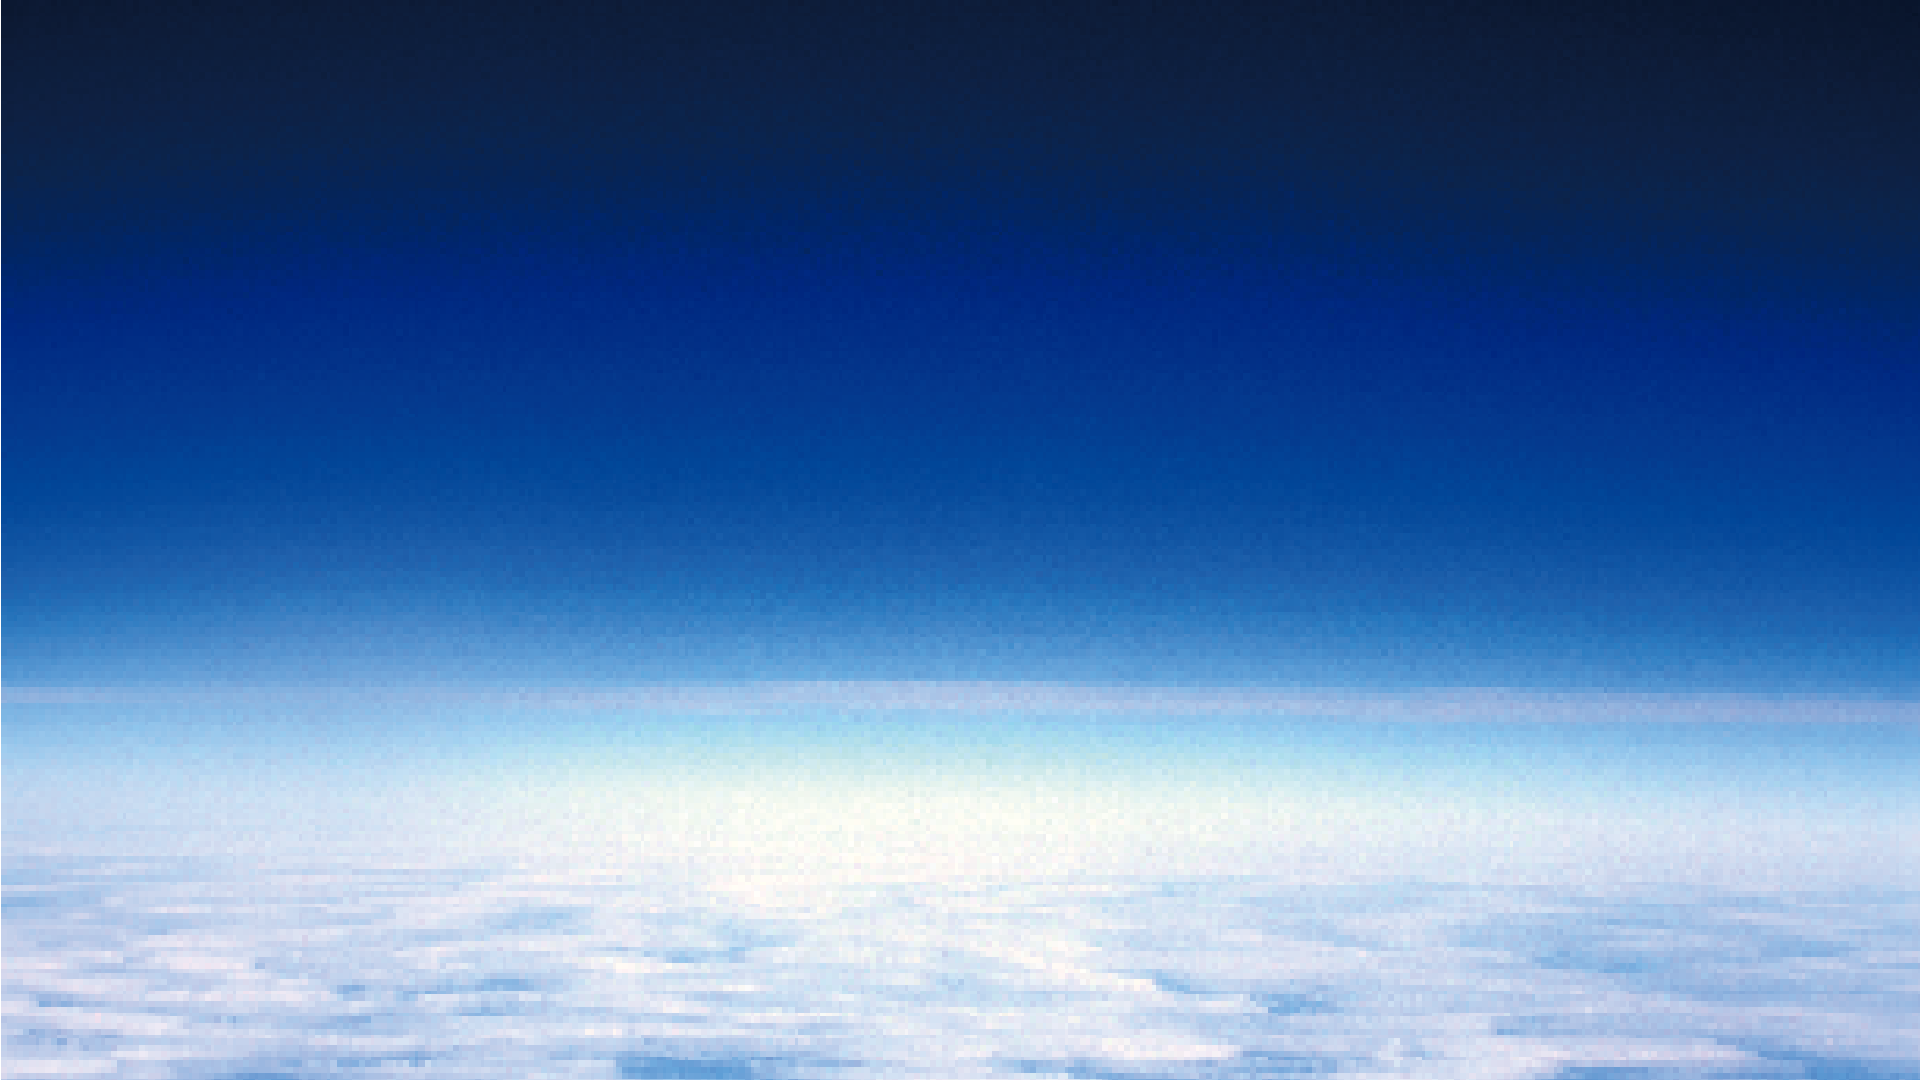
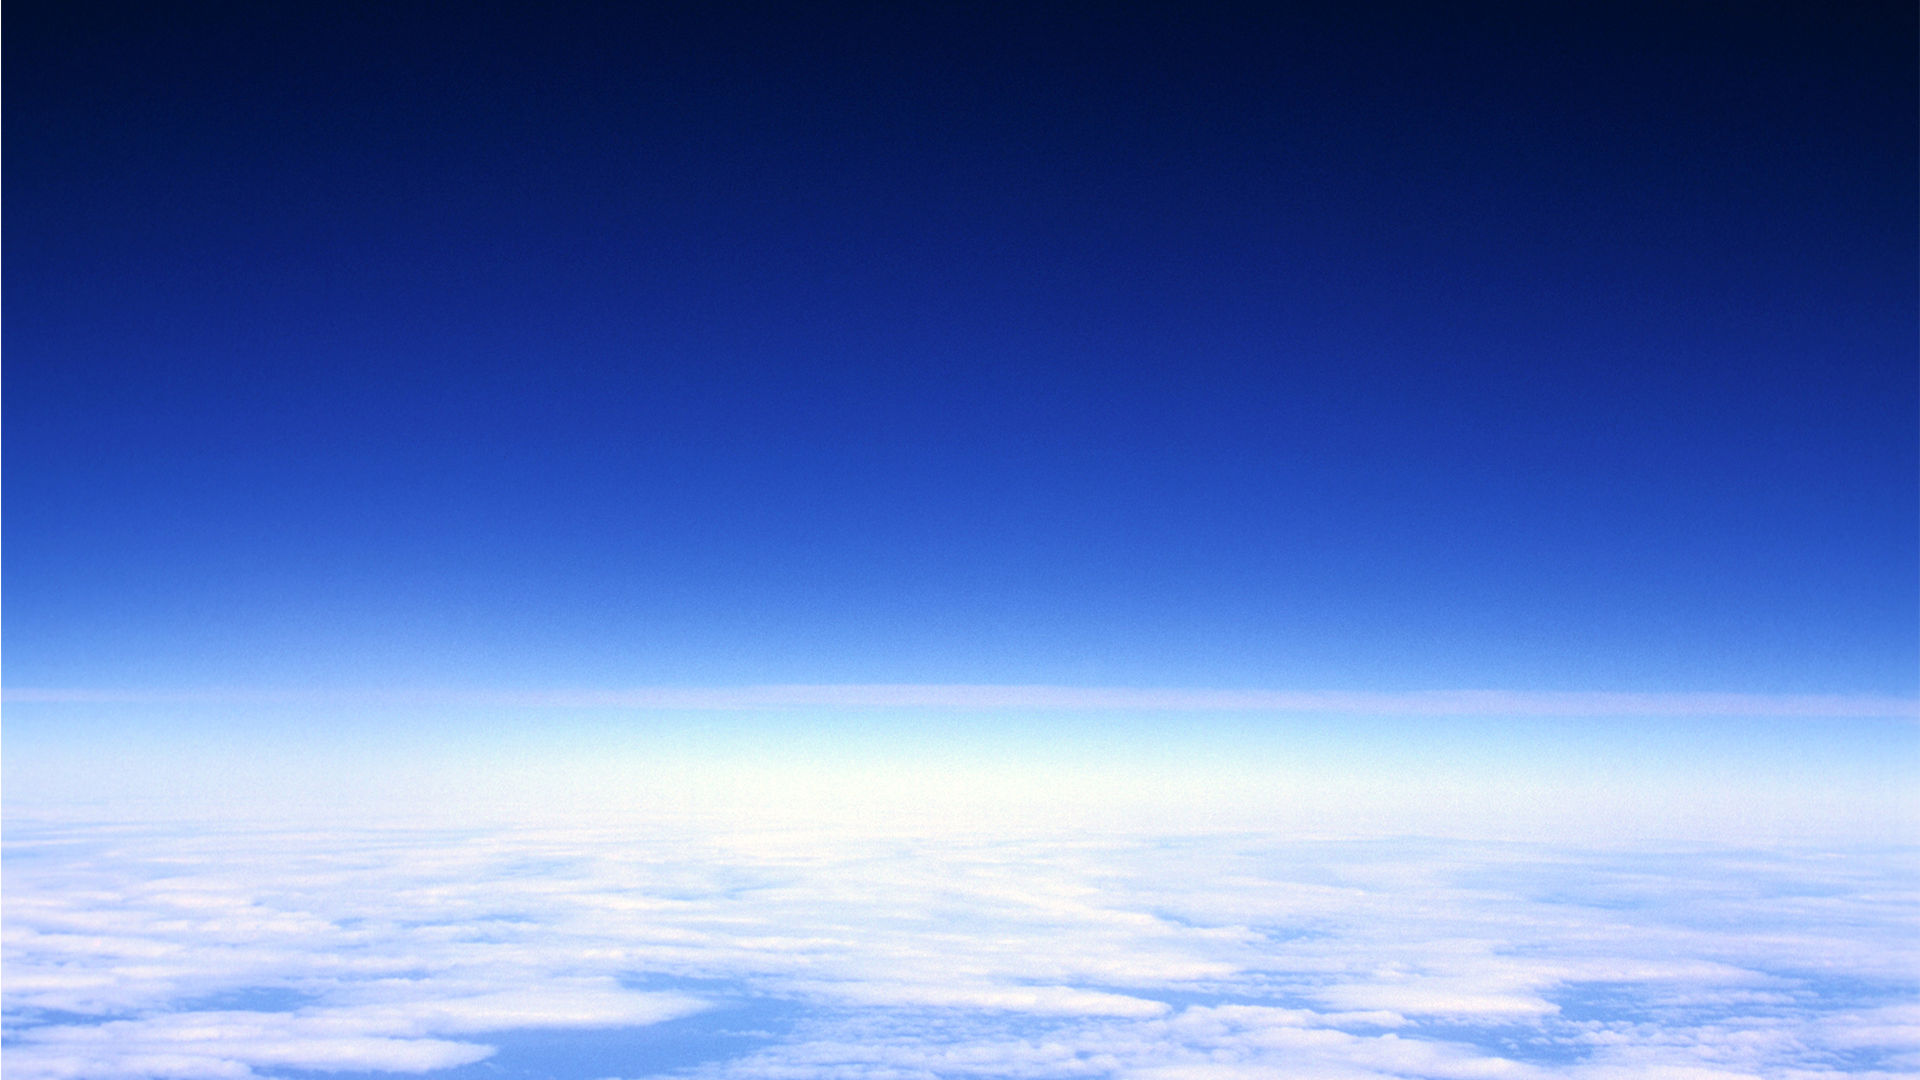
lp 3/17/2025

diff --git a/public/css/homepage.css b/public/css/homepage.css
@@ -78,6 +78,7 @@
     justify-content: space-between;
     position: relative;
     width: 100%;
+    min-height: 40px;
 }
 
 .btn-gold {
@@ -1743,17 +1744,26 @@ tbody .table-1-header {
     }
 
     .header-container {
-        position: fixed;
+        position: relative;
         z-index: 1001;
         max-width: unset !important;
         background: transparent;
         padding: 10px 20px;
     }
+    .header-container-sp {
+        transition: background-color 0.3s ease-in-out;
+    }
 
+    .header-container.active {
+        position: fixed;
+        background-color: #0B234A;
+        top: 0;
+        width: 100%;
+    }
     .top-container {
         flex-direction: column;
         gap: 25px;
-        padding-top: 90px;
+        /*padding-top: 90px;*/
     }
 
     .top-table-header {
@@ -1814,6 +1824,7 @@ tbody .table-1-header {
         padding: 0 0 60px 0;
         background: var(--eucalyptus) url(../img/section1-bg-sp.png) bottom;
         background-size: cover;
+        gap: 40px;
     }
 
     .section-1 .title-2 {
@@ -1919,5 +1930,8 @@ tbody .table-1-header {
         padding: 12px 0px 12px 8px;
         font-size: 13px;
         flex-wrap: nowrap;
+    }
+    .group-label {
+        letter-spacing: -2.5px;
     }
 }

diff --git a/index.html b/index.html
@@ -208,7 +208,7 @@
                                     会社案内 / 事業案内 /<br class="for-sp"> お問合せ(メールフォーム) /<br>
                                     個人情報保護方針<br>
                                 </p>
-                                <p>
+                                <p style="margin-top: 8px">
                                     <span class="label-option">OPTION!</span><br class="for-sp">追加ページ 1 ページ <br class="for-sp">5 万円 (税別)
                                 </p>
                             </td>
@@ -676,6 +676,16 @@
             document.documentElement.scrollTop = 0;
         }
     }
+    window.addEventListener("scroll", function () {
+        const header = document.querySelector(".header-container");
+        const triggerPoint = 500;
+
+        if (window.scrollY > triggerPoint) {
+            header.classList.add("active");
+        } else {
+            header.classList.remove("active");
+        }
+    });
 
     $(document).ready(function () {
         $('.slider').slick({
